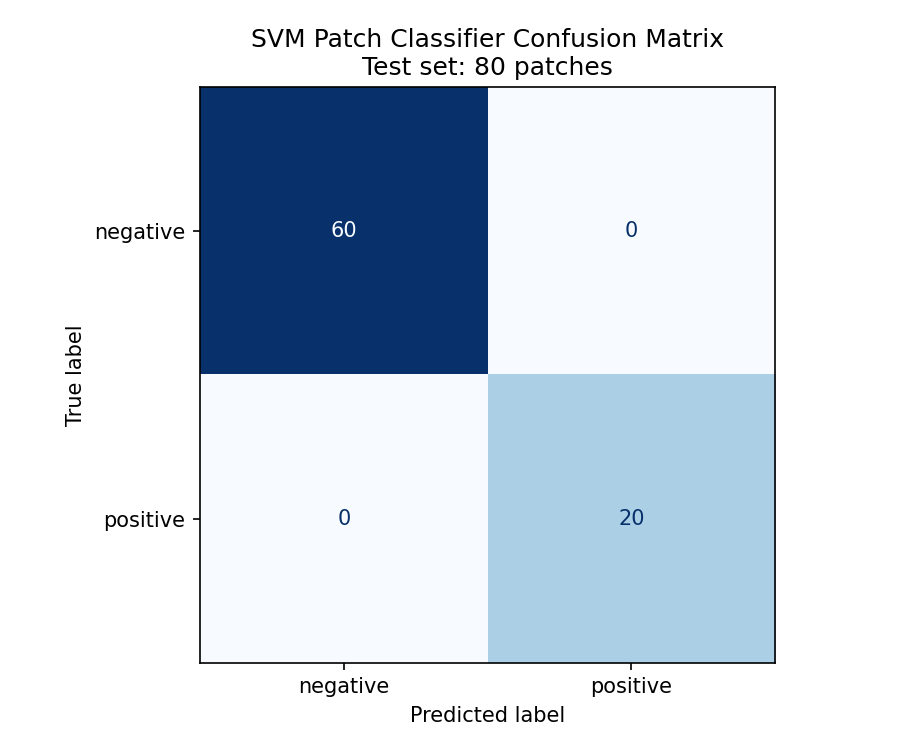
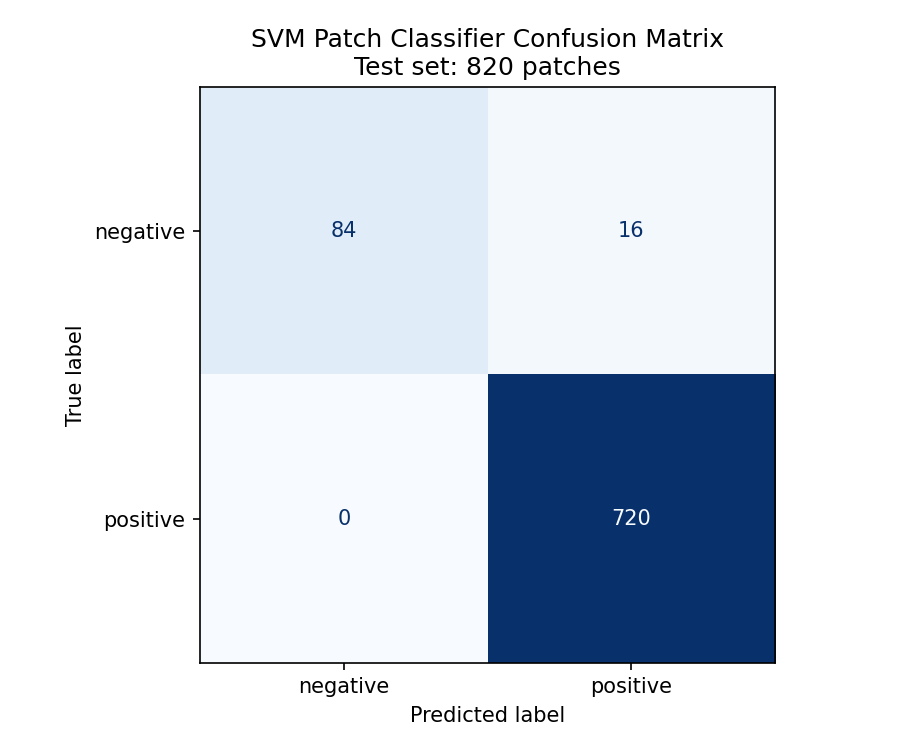
extracting more positive patches + HOG

Changed region(s): [[0.2178, 0.0613, 0.8711, 0.8893], [0.6844, 0.276, 0.7156, 0.3373]]

diff --git a/classifier_training/svm_trainer.py b/classifier_training/svm_trainer.py
@@ -1,103 +1,67 @@
 """
 loads the extracted patches, trains an SVM classifier, evaluates it,
 and saves the trained model.
-
-in:
-  all_patches.npy   
-  all_labels.npy    
-
-out:
-  svm_model.pkl             trained model
-  svm_confusion_matrix.png  evaluation figure
 """
 
 import os
 import numpy as np
-import matplotlib.pyplot as plt
 import pickle
-
+import matplotlib.pyplot as plt
+from skimage.feature import hog
 from sklearn.svm import SVC
 from sklearn.preprocessing import StandardScaler
 from sklearn.pipeline import Pipeline
 from sklearn.model_selection import train_test_split
-from sklearn.metrics import (classification_report,
-                             confusion_matrix,
-                             ConfusionMatrixDisplay)
+from sklearn.metrics import classification_report, confusion_matrix, ConfusionMatrixDisplay
 
-#  config 
 ROOT      = "classifier_training"
 PATCH_DIR = os.path.join(ROOT, "patches")
 MODEL_OUT = os.path.join(ROOT, "svm_model.pkl")
 FIG_OUT   = os.path.join(ROOT, "svm_confusion_matrix.png")
 
-#  load data 
+# load patches
 print("Loading patches...")
-patches = np.load(os.path.join(PATCH_DIR, "all_patches.npy"))  # (400, 85, 85)
-labels  = np.load(os.path.join(PATCH_DIR, "all_labels.npy"))   # (400,)
+patches = np.load(os.path.join(PATCH_DIR, "all_patches.npy")) 
+labels  = np.load(os.path.join(PATCH_DIR, "all_labels.npy"))
+print(f"Patches: {patches.shape}  |  Pos: {(labels==1).sum()}  Neg: {(labels==0).sum()}")
 
-print(f"  Patches shape : {patches.shape}")
-print(f"  Labels shape  : {labels.shape}")
-print(f"  Positives     : {(labels == 1).sum()}")
-print(f"  Negatives     : {(labels == 0).sum()}")
+# extract HOG features instead of raw pixels
+def extract_hog(patch):
+    return hog(patch,
+               orientations=9,          # 9 angle bins (0-180°)
+               pixels_per_cell=(8, 8),  # local gradient cells
+               cells_per_block=(2, 2),  # normalisation block
+               visualize=False)
 
-# flatten patches ---> feature vectors 
-# each 85x85 patch becomes a 7225-element vector
-N = patches.shape[0]
-X = patches.reshape(N, -1).astype(np.float32)  # (400, 7225)
+print("Extracting HOG features... (This forces the SVM to look at structure, not noise)")
+X = np.array([extract_hog(p) for p in patches])
 y = labels
+print(f"HOG feature vector size: {X.shape[1]}  (Compressed from 7225 raw pixels)")
 
-print(f"\n  Feature matrix shape: {X.shape}")
-
-#  train / test split 
-# both classes are represented equally in both splits
+# train/test split 
 X_train, X_test, y_train, y_test = train_test_split(
-    X, y,
-    test_size=0.20,
-    random_state=42,
-    stratify=y
+    X, y, test_size=0.20, random_state=42, stratify=y
 )
 
-print(f"\n  Train samples : {len(X_train)}  "
-      f"(pos={y_train.sum()}, neg={(y_train==0).sum()})")
-print(f"  Test  samples : {len(X_test)}   "
-      f"(pos={y_test.sum()},  neg={(y_test==0).sum()})")
-
-#  build pipeline: scale → SVM 
-# StandardScaler normalises each pixel position across all patches
-# class_weight="balanced" compensates for 1:3 pos:neg ratio
+# pipeline: scale -> SVM 
+#  removed class_weight="balanced"
 pipeline = Pipeline([
     ("scaler", StandardScaler()),
-    ("svm",    SVC(
-        kernel="rbf",           # radial basis — best for image patches
-        C=10.0,                 # regularisation strength
-        gamma="scale",          # auto-scale to feature variance
-        class_weight="balanced",# compensate for class imbalance
-        random_state=42,
-        probability=True,       # enable predict_proba for the navigator
-    ))
+    ("svm",    SVC(kernel="rbf", C=5.0, gamma="scale",
+                   probability=True, random_state=42)),
 ])
 
-print("\nTraining SVM... (this may take ~1-2 minutes on 320 samples)")
+print("\nTraining SVM...")
 pipeline.fit(X_train, y_train)
-print("Training complete.")
 
-#  evaluate 
+# evaluate 
 y_pred = pipeline.predict(X_test)
-y_prob = pipeline.predict_proba(X_test)[:, 1]   # probability of positive class
-
-print("\n" + "─"*50)
-print("CLASSIFICATION REPORT")
-print("─"*50)
-print(classification_report(y_test, y_pred,
-                             target_names=["negative (no cell)",
-                                           "positive (cell interior)"]))
+print("\n" + classification_report(y_test, y_pred, target_names=["negative", "positive"]))
 
 cm = confusion_matrix(y_test, y_pred)
-print("Confusion Matrix:")
-print(f"  TN={cm[0,0]}  FP={cm[0,1]}")
-print(f"  FN={cm[1,0]}  TP={cm[1,1]}")
+print(f"TN={cm[0,0]}  FP={cm[0,1]}  FN={cm[1,0]}  TP={cm[1,1]}")
 
-#  plot confusion matrix 
+# plot confusion matrix 
 fig, ax = plt.subplots(figsize=(6, 5))
 disp = ConfusionMatrixDisplay(
     confusion_matrix=cm,
@@ -109,11 +73,7 @@ ax.set_title("SVM Patch Classifier Confusion Matrix\n"
 plt.tight_layout()
 plt.savefig(FIG_OUT, dpi=150)
 plt.close()
-print(f"\nConfusion matrix saved → {FIG_OUT}")
 
-#  save model 
 with open(MODEL_OUT, "wb") as f:
     pickle.dump(pipeline, f)
-
-print(f"Model saved       → {MODEL_OUT}")
-print("\nDone. The navigator can now load svm_model.pkl to classify patches.")
+print(f"\n✅ Smarter, structure-based model saved → {MODEL_OUT}")

diff --git a/classifier_training/extract_patches.py b/classifier_training/extract_patches.py
@@ -120,17 +120,27 @@ for lbl_file in label_files:
     rng  = np.random.default_rng(seed=data["seed"])
     states = data["all_states"]
 
-    # positive: (1,1) cell interior 
-    target = data.get("target_pixel")
-    if target is None:
-        print(f"  SKIP (no (1,1)): {data['image_name']}")
-        skipped.append(lbl_file)
-        continue
+    # POSITIVES
+    CLOSED_CELLS = ["1_1", "2_2", "1_2", "2_1"] 
+    
+    JITTER_OFFSETS = [
+        (0, 0),
+        (-15, 0), (15, 0), (0, -15), (0, 15),
+        (-10, -10), (10, 10), (-10, 10), (10, -10)
+    ]
 
-    t_col, t_row = target["col_px"], target["row_px"]
-    pos_patch = extract_patch(img, t_col, t_row)
-    if pos_patch is None:
-        print(f"  SKIP (positive OOB): {data['image_name']}")
+    image_pos_patches = []
+    for state_key in CLOSED_CELLS:
+        state = states.get(state_key)
+        if state is None:
+            continue
+        for dx, dy in JITTER_OFFSETS:
+            p = extract_patch(img, state["col_px"] + dx, state["row_px"] + dy)
+            if p is not None:
+                image_pos_patches.append(p)
+
+    if not image_pos_patches:
+        print(f"  SKIP (no closed cells found): {data['image_name']}")
         skipped.append(lbl_file)
         continue
 
@@ -147,6 +157,21 @@ for lbl_file in label_files:
         skipped.append(lbl_file)
         continue
 
+    # hard negatives 2 & 3: (0,1) and (1,0) - the states visited right before (1,1)
+    adj_negs = []
+    for state_key in ["0_1", "1_0"]:
+        state = states.get(state_key)
+        if state is None:
+            continue
+        adj_patch = extract_patch(img, state["col_px"], state["row_px"])
+        if adj_patch is not None:
+            adj_negs.append(adj_patch)
+
+    #  random negatives 1 & 2: must land on a visible line 
+    # we need t_col and t_row so the random patches know what area to avoid!
+    target = data.get("target_pixel")
+    t_col, t_row = target["col_px"], target["row_px"]
+
     #  random negatives 1 & 2: must land on a visible line 
     neg_rand1 = find_random_line_patch(img, t_col, t_row, rng)
     neg_rand2 = find_random_line_patch(img, t_col, t_row, rng)
@@ -159,13 +184,16 @@ for lbl_file in label_files:
         rand_negs = [neg_rand1, neg_rand2]
 
     #  collect 
-    all_positive.append(pos_patch)
+    #  collect 
+    all_positive.extend(image_pos_patches)      
     all_negative.append(neg_void)
+    all_negative.extend(adj_negs)              
     all_negative.extend(rand_negs)
 
+    # update print statement to reflect the new counts
     print(f"  ✓ {data['image_name']}  "
-          f"pos=1  neg={1 + len(rand_negs)}  "
-          f"pos_mean={pos_patch.mean():.3f}  void_mean={neg_void.mean():.3f}")
+          f"pos={len(image_pos_patches)}  neg={1 + len(adj_negs) + len(rand_negs)}  "
+          f"pos_mean={image_pos_patches[0].mean():.3f}  void_mean={neg_void.mean():.3f}")
 
 #  stack and save 
 patches_pos = np.stack(all_positive, axis=0)   # (N, 85, 85)